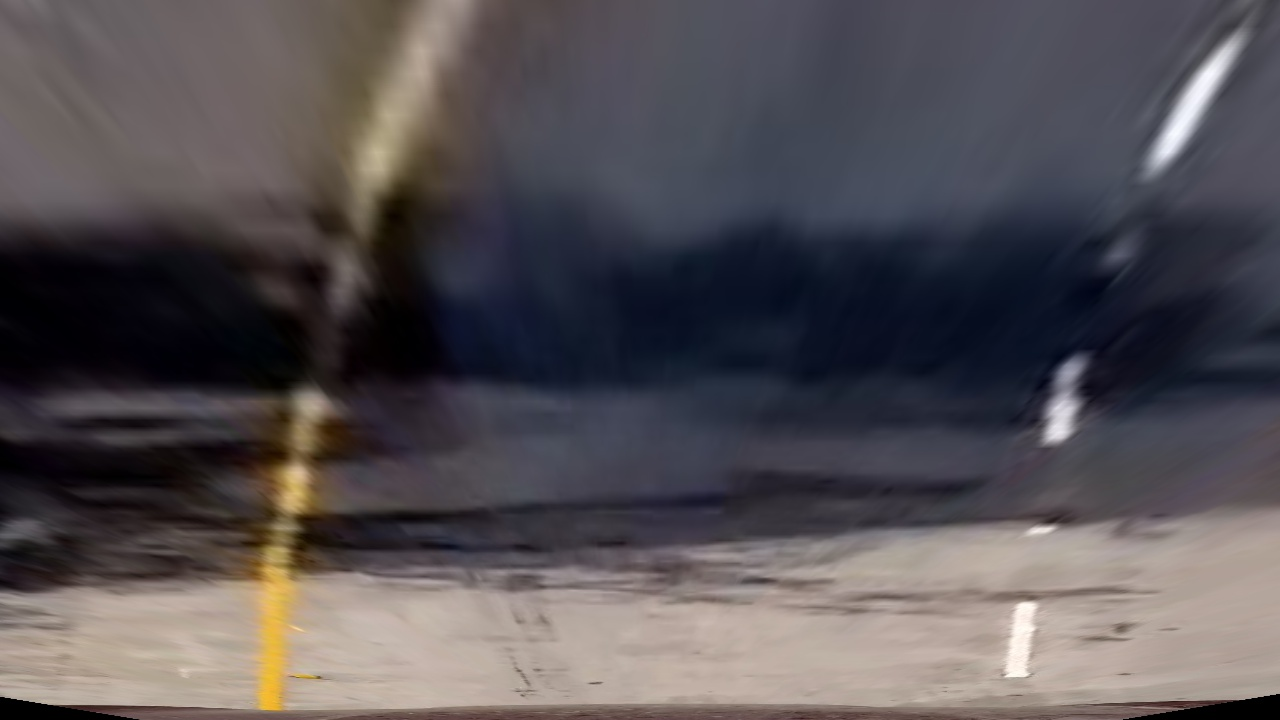
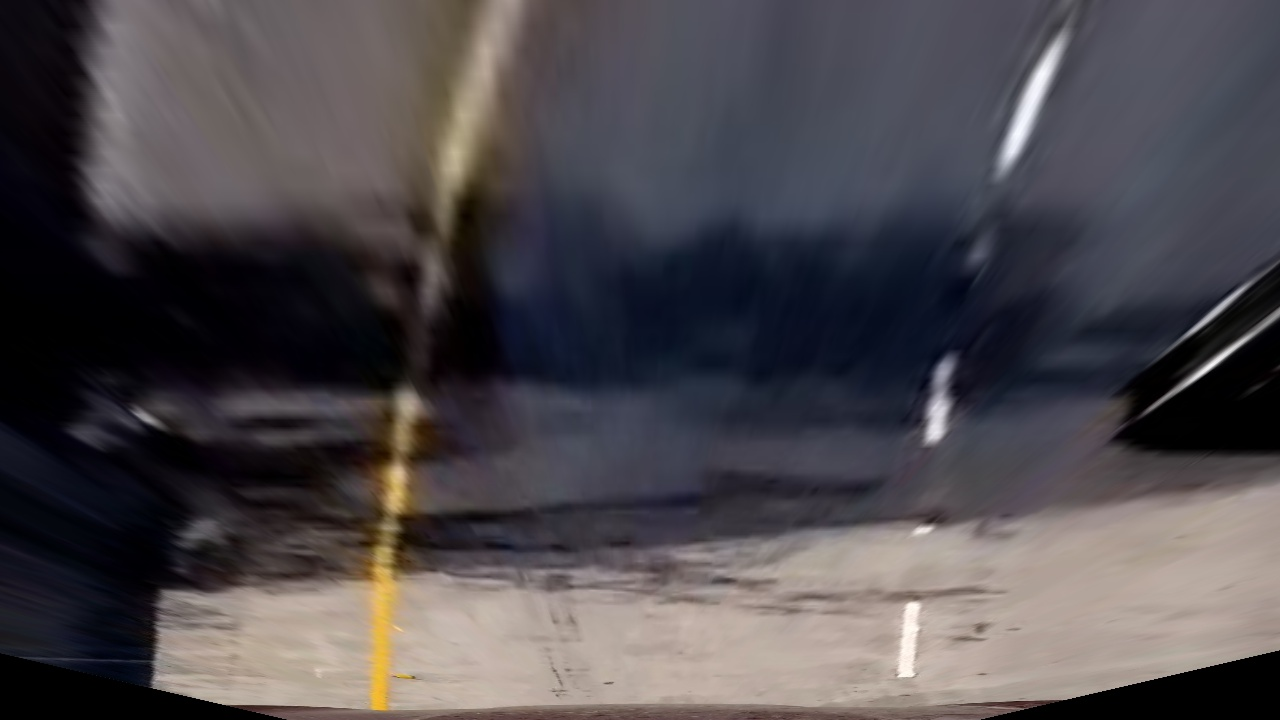
project_4 file relocated with necessary path changes within to the parent folder

diff --git a/examples/project_4.py b/examples/project_4.py
@@ -7,8 +7,9 @@ Created on Sat Oct  6 20:38:20 2018
 """
 import numpy as np
 import glob, cv2
-import matplotlib.pyplot as plt
 
+import pylab
+import imageio
 
 
 #    Project Steps 
@@ -55,6 +56,10 @@ class Line():
         self.cameraMatrix = None
         self.distortionParameters = None
         self.M = None
+        self.left_fit = None
+        self.right_fit = None
+        self.left_curverad = None
+        self.right_curverad = None
         
         if self.verbosity >= 1:    
             print('Initialzation of the Object "',objectName,'" which is of type "Line" is complete')
@@ -157,7 +162,7 @@ class Line():
         img = cv2.imread(fname)
         undistortedImage = self.__undistortImage__(img)
 #            gray = cv2.cvtColor(undistordedImage, cv2.COLOR_BGR2GRAY)
-        offset = 300
+        offset = 400
         img_size = (img.shape[1], img.shape[0])
         
         src = np.array([[205,720],[596,450],[685,450],[1100,720]], np.double).reshape(4,1,2)
@@ -205,7 +210,6 @@ class Line():
         # 1) Convert to HLS color space
         hls = cv2.cvtColor(img, cv2.COLOR_BGR2HLS)
         # 2) Apply a threshold to the S channel
-        H = hls[:,:,0]
         L = hls[:,:,1]
         S = hls[:,:,2]
         binary_output = np.zeros_like(S)
@@ -214,19 +218,152 @@ class Line():
         # L > 200 is helping in detecting white lines
         binary_output[((S > thresh[0]) & (S <= thresh[1]) & (L > 60)) | (L > 200)] = 255
         # 3) Return a binary image of threshold result
-        
-#        binary_output = L
         return binary_output
+    
+    def __find_lane_pixels__(self,binary_warped):
+        # Take a histogram of the bottom half of the image
+        histogram = np.sum(binary_warped[binary_warped.shape[0]//2:,:], axis=0)
+        # Create an output image to draw on and visualize the result
+        out_img = np.dstack((binary_warped, binary_warped, binary_warped))
+        # Find the peak of the left and right halves of the histogram
+        # These will be the starting point for the left and right lines
+        midpoint = np.int(histogram.shape[0]//2)
+        leftx_base = np.argmax(histogram[:midpoint])
+        rightx_base = np.argmax(histogram[midpoint:]) + midpoint
+    
+        # HYPERPARAMETERS
+        # Choose the number of sliding windows
+        nwindows = 17
+        # Set the width of the windows +/- margin
+        margin = 110
+        # Set minimum number of pixels found to recenter window
+        minpix = 30
+    
+        # Set height of windows - based on nwindows above and image shape
+        window_height = np.int(binary_warped.shape[0]//nwindows)
+        # Identify the x and y positions of all nonzero pixels in the image
+        nonzero = binary_warped.nonzero()
+        nonzeroy = np.array(nonzero[0])
+        nonzerox = np.array(nonzero[1])
+        # Current positions to be updated later for each window in nwindows
+        leftx_current = leftx_base
+        rightx_current = rightx_base
+    
+        # Create empty lists to receive left and right lane pixel indices
+        left_lane_inds = []
+        right_lane_inds = []
+    
+        # Step through the windows one by one
+        for window in range(nwindows):
+            # Identify window boundaries in x and y (and right and left)
+            win_y_low = binary_warped.shape[0] - (window+1)*window_height
+            win_y_high = binary_warped.shape[0] - window*window_height
+            ### TO-DO: Find the four below boundaries of the window ###
+            win_xleft_low =  leftx_current - margin  # Update this
+            win_xleft_high = leftx_current + margin  # Update this
+            win_xright_low = rightx_current - margin  # Update this
+            win_xright_high = rightx_current + margin  # Update this
             
+            # Draw the windows on the visualization image
+            cv2.rectangle(out_img,(win_xleft_low,win_y_low),
+            (win_xleft_high,win_y_high),(0,255,0), 2) 
+            cv2.rectangle(out_img,(win_xright_low,win_y_low),
+            (win_xright_high,win_y_high),(0,255,0), 2) 
+            
+            ### TO-DO: Identify the nonzero pixels in x and y within the window ###
+            good_left_inds = ((nonzerox>=win_xleft_low) & (nonzerox<win_xleft_high) & 
+            (nonzeroy>=win_y_low) & (nonzeroy<win_y_high)).nonzero()[0]
+            good_right_inds = ((nonzerox>=win_xright_low) & (nonzerox<win_xright_high) &
+            (nonzeroy>=win_y_low) & (nonzeroy<win_y_high)).nonzero()[0]
+            
+    
+            # Append these indices to the lists
+            left_lane_inds.append(good_left_inds)
+            right_lane_inds.append( good_right_inds)
+            
+            if len(good_left_inds) > minpix:
+                leftx_current = np.int(np.mean(nonzerox[good_left_inds]))
+            if len(good_right_inds) > minpix:        
+                rightx_current = np.int(np.mean(nonzerox[good_right_inds]))
+    
+        # Concatenate the arrays of indices (previously was a list of lists of pixels)
+        try:
+            left_lane_inds = np.concatenate(left_lane_inds)
+            right_lane_inds = np.concatenate(right_lane_inds)
+        except ValueError:
+            # Avoids an error if the above is not implemented fully
+            pass
+    
+        # Extract left and right line pixel positions
+        leftx = nonzerox[left_lane_inds]
+        lefty = nonzeroy[left_lane_inds] 
+        rightx = nonzerox[right_lane_inds]
+        righty = nonzeroy[right_lane_inds]
+    
+        return leftx, lefty, rightx, righty, out_img
+
+    def __fit_polynomial__(self,binary_warped):
+        # Find our lane pixels first
+        leftx, lefty, rightx, righty, out_img = self.__find_lane_pixels__(binary_warped)
+    
+        # Fit a second order polynomial to each using `np.polyfit` ###
+        self.left_fit = np.polyfit(lefty, leftx, 2)
+        self.right_fit = np.polyfit(righty, rightx, 2)
+
+    
+        # Generate x and y values for plotting
+        ploty = np.linspace(0, binary_warped.shape[0]-1, binary_warped.shape[0] )
+        try:
+            left_fitx = self.left_fit[0]*ploty**2 + self.left_fit[1]*ploty + self.left_fit[2]
+            right_fitx = self.right_fit[0]*ploty**2 + self.right_fit[1]*ploty + self.right_fit[2]
+        except TypeError:
+            # Avoids an error if `left` and `right_fit` are still none or incorrect
+            print('The function failed to fit a line!')
+#            left_fitx = 1*ploty**2 + 1*ploty
+#            right_fitx = 1*ploty**2 + 1*ploty
+    
+        ## Visualization ##
+        # Colors in the left and right lane regions
+        out_img[lefty, leftx] = [255, 0, 0]
+        out_img[righty, rightx] = [0, 0, 255]
+    
+        # Plots the left and right polynomials on the lane lines
+#        plt.plot(left_fitx, ploty, color='yellow')
+#        plt.plot(right_fitx, ploty, color='yellow')
+    
+        return out_img
+    
+    def __measure_curvature_real__(self):
+        '''
+        Calculates the curvature of polynomial functions in meters.
+        '''
+        # Define conversions in x and y from pixels space to meters
+        ym_per_pix = 30/720 # meters per pixel in y dimension
+#        xm_per_pix = 3.7/700 # meters per pixel in x dimension
+        
+        # Start by generating our fake example data
+        # Make sure to feed in your real data instead in your project!
+        left_fit_cr = self.left_fit
+        right_fit_cr = self.right_fit
+        
+        # Define y-value where we want radius of curvature
+        # We'll choose the maximum sey-value, corresponding to the bottom of the image
+        y_eval = self.imageShape.shape[0]
+        
+        # Calculation of R_curve (radius of curvature)
+        self.left_curverad = ((1 + (2*left_fit_cr[0]*y_eval*ym_per_pix + left_fit_cr[1])**2)**1.5) / np.absolute(2*left_fit_cr[0])
+        self.right_curverad = ((1 + (2*right_fit_cr[0]*y_eval*ym_per_pix + right_fit_cr[1])**2)**1.5) / np.absolute(2*right_fit_cr[0])
+         
     def __image_pipeline__(self):
         if self.verbosity == 2:
-            print('inside image pipeline')
+            print('inside __image_pipeline__ pipeline')
         self.__undistort__()
         self.__perspectiveTranformOnChessBoard__()
         self.__perspectiveTranformOnRoad__()
         self.__perspectiveTranformOnRoadtest__()
 
-        imageNames = glob.glob(self.testImageLocation + "test*.jpg")    
+        imageNames = glob.glob(self.testImageLocation + "test*.jpg")  
+        
         for fname in imageNames:
             img = cv2.imread(fname)
             img = self.__ms_undistortImage__(img)
@@ -234,59 +371,37 @@ class Line():
             # need to be done before perspective transform as the image is gettng blurry in the other case and it is difficult to identify edges and colors
             binary_threshold_image = self.__hls_select__(img)
             cv2.imwrite(self.outputImageLocation  + 'pipeline_003' + fname.split('/')[-1],binary_threshold_image)
-            perspectiveImage = self.__perspectiveTransformImage__(binary_threshold_image)
-            cv2.imwrite(self.outputImageLocation + 'pipeline_004' + fname.split('/')[-1],perspectiveImage)
-
-
+            warpedImage = self.__perspectiveTransformImage__(binary_threshold_image)
+            cv2.imwrite(self.outputImageLocation + 'pipeline_004' + fname.split('/')[-1],warpedImage)
+            out_img = self.__fit_polynomial__(warpedImage)
+            cv2.imwrite(self.outputImageLocation + 'pipeline_005' + fname.split('/')[-1],out_img)
+            self.__measure_curvature_real__()
+            print(self.left_curverad,self.right_curverad)
+            
+            
+    def __video_pipeline__(self):
+        if self.verbosity == 2:
+            print('inside __video_pipeline__ pipeline')
         
-#        fname = 'calibration_test.png'
-#        img = cv2.imread(fname)
-#
-#        # Convert to grayscale
-#        gray = cv2.cvtColor(img, cv2.COLOR_BGR2GRAY)
-#
-#        # Find the chessboard corners
-#        ret, corners = cv2.findChessboardCorners(gray, (nx, ny), None)
-#
-#        # If found, draw corners
-#        if ret == True:
-#            # Draw and display the corners
-#            cv2.drawChessboardCorners(img, (nx, ny), corners, ret)
-#            plt.imshow(img)
+        reader = imageio.get_reader('project_video.mp4','ffmpeg')
+        
+        for i, img in enumerate(reader):
+#            print('Mean of frame %i is %1.1f' % (i, im.mean()))
+            img = img[...,::-1]
+            img = self.__ms_undistortImage__(img)
+            binary_threshold_image = self.__hls_select__(img)
+            warpedImage = self.__perspectiveTransformImage__(binary_threshold_image)
+            out_img = self.__fit_polynomial__(warpedImage)
+            cv2.imwrite(self.outputImageLocation + 'videoframe_' + str(i) + '.jpg',out_img)
+            self.__measure_curvature_real__()
+            print(self.left_curverad,self.right_curverad)
 
-#    def __corners_unwarp__(img, mtx, dist):
-#        # Use the OpenCV undistort() function to remove distortion
-#        undist = cv2.undistort(img, mtx, dist, None, mtx)
-#        # Convert undistorted image to grayscale
-#        gray = cv2.cvtColor(undist, cv2.COLOR_BGR2GRAY)
-#        # Search for corners in the grayscaled image
-#        ret, corners = cv2.findChessboardCorners(gray, (nx, ny), None)
-#    
-#        if ret == True:
-#            # If we found corners, draw them! (just for fun)
-#            cv2.drawChessboardCorners(undist, (nx, ny), corners, ret)
-#            # Choose offset from image corners to plot detected corners
-#            # This should be chosen to present the result at the proper aspect ratio
-#            # My choice of 100 pixels is not exact, but close enough for our purpose here
-#            offset = 100 # offset for dst points
-#            # Grab the image shape
-#            img_size = (gray.shape[1], gray.shape[0])
-#    
-#            # For source points I'm grabbing the outer four detected corners
-#            src = np.float32([corners[0], corners[nx-1], corners[-1], corners[-nx]])
-#            # For destination points, I'm arbitrarily choosing some points to be
-#            # a nice fit for displaying our warped result 
-#            # again, not exact, but close enough for our purposes
-#            dst = np.float32([[offset, offset], [img_size[0]-offset, offset], 
-#                                         [img_size[0]-offset, img_size[1]-offset], 
-#                                         [offset, img_size[1]-offset]])
-#            # Given src and dst points, calculate the perspective transform matrix
-#            M = cv2.getPerspectiveTransform(src, dst)
-#            # Warp the image using OpenCV warpPerspective()
-#            warped = cv2.warpPerspective(undist, M, img_size)
-#
-#        # Return the resulting image and matrix
-#        return warped, M
+#        while image in vid.get_data():
+##            image = vid.get_data(num)
+#            fig = pylab.figure()
+#            fig.suptitle('image #{}'.format(1), fontsize=20)
+#            pylab.imshow(image)
+#        pylab.show()
 
 
 def main():
@@ -301,6 +416,7 @@ def main():
 
     createdObject = Line(objectName = 'Advanced Lane Detection Pipeline',**params)
     createdObject.__image_pipeline__();
+    createdObject.__video_pipeline__();
 
 if __name__ == "__main__":
     main()
